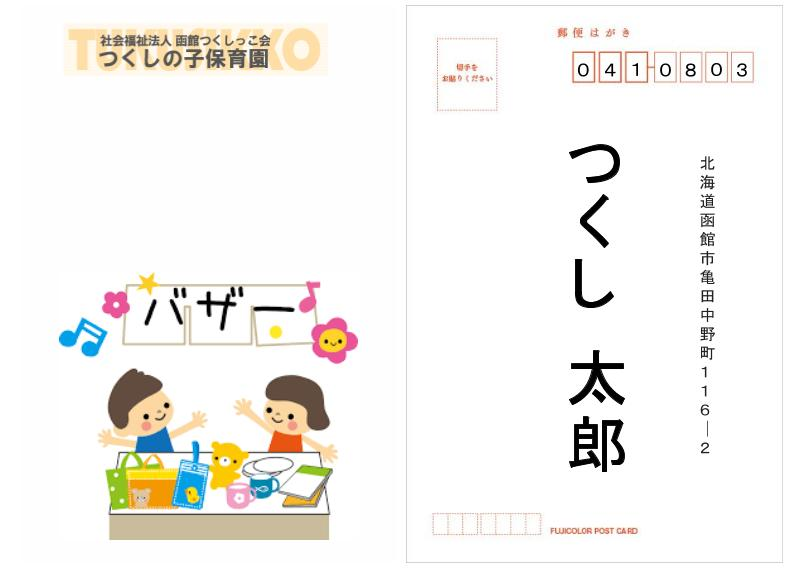
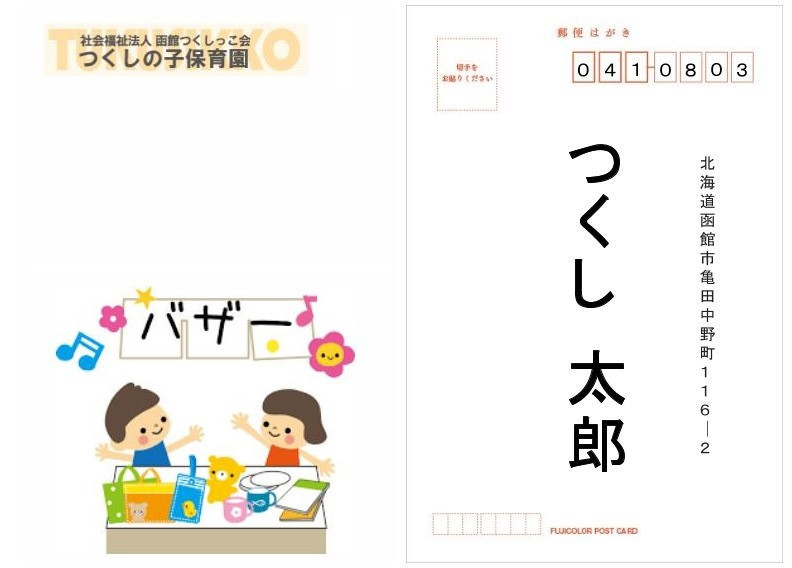
疑似QRコードの貼り付け（変更可能）

Changed region(s): [[0.0606, 0.4789, 0.4545, 0.9877], [0.0606, 0.0299, 0.4242, 0.1496]]

diff --git a/development/kindergarten_roster_management/www/event.html b/development/kindergarten_roster_management/www/event.html
@@ -342,7 +342,8 @@
             <br>
             <div id="image"></div>
             <div id="title"></div>
-            <div id="test" style="position:absolute;top:560px;left:80px;"></div>
+            <div id="QR"></div>
+            <div id="test" style="position:absolute;top:550px;left:80px;"></div>
 
         <!-------------------------------------------------------------------------------
           -------------------------------------------------------------------------------
@@ -461,25 +462,30 @@
 
                         if (eveindx == "1") {
                             document.getElementById("image").innerHTML = "<img src=\"./img/bazzer.jpg\">";
+                            document.getElementById("QR").innerHTML = "<img src=\"./img/QR.png\" style=\"position:absolute;top:350px;left:320px;\" width=\"60\" height=\"60\">";
                         } else if (eveindx == "2") {
                             //document.write('<img src="./img/sports.jpg" width="792" height="568" />');
                             //document.write(year + month + day + week);
                             document.getElementById("image").innerHTML = "<img src=\"./img/sports.jpg\">";
                             document.getElementById("title").innerHTML = "<img src=\"./img/sports_logo.jpg\" style=\"position:absolute;top:400px;left:20px;\">";
+                            document.getElementById("QR").innerHTML = "<img src=\"./img/QR.png\" style=\"position:absolute;top:350px;left:320px;\" width=\"60\" height=\"60\">";
                         } else if (eveindx == "3") {
                             //document.write('<img src="./img/matsuri.jpg" width="792" height="568" />');
                             //document.write(year + month + day + week);
                             document.getElementById("image").innerHTML = "<img src=\"./img/matsuri.jpg\">";
                             document.getElementById("title").innerHTML = "<img src=\"./img/matsuri_logo.png\" style=\"position:absolute;top:400px;left:20px;\">";
+                            document.getElementById("QR").innerHTML = "<img src=\"./img/QR.png\" style=\"position:absolute;top:350px;left:320px;\" width=\"60\" height=\"60\">";
                         } else if (eveindx == "4") {
                             //document.write('<img src="./img/mochi.jpg" width="792" height="568" />');
                             //document.write(year + month + day + week);
                             document.getElementById("image").innerHTML = "<img src=\"./img/mochi.jpg\">";
                             document.getElementById("title").innerHTML = "<img src=\"./img/mochi_logo.jpg\" style=\"position:absolute;top:400px;left:20px;\">";
+                            document.getElementById("QR").innerHTML = "<img src=\"./img/QR.png\" style=\"position:absolute;top:350px;left:320px;\" width=\"60\" height=\"60\">";
                         } else if (eveindx == "5") {
                             //document.write('<img src="./img/sotsuenshiki.jpg" width="792" height="568" />');
                             //document.write(year + month + day + week);
                             document.getElementById("image").innerHTML = "<img src=\"./img/sotsuenshiki.jpg\">";
+                            document.getElementById("QR").innerHTML = "<img src=\"./img/QR.png\" style=\"position:absolute;top:350px;left:320px;\" width=\"60\" height=\"60\">";
                         }
                     } else {
                         alert("選択して下さい");
